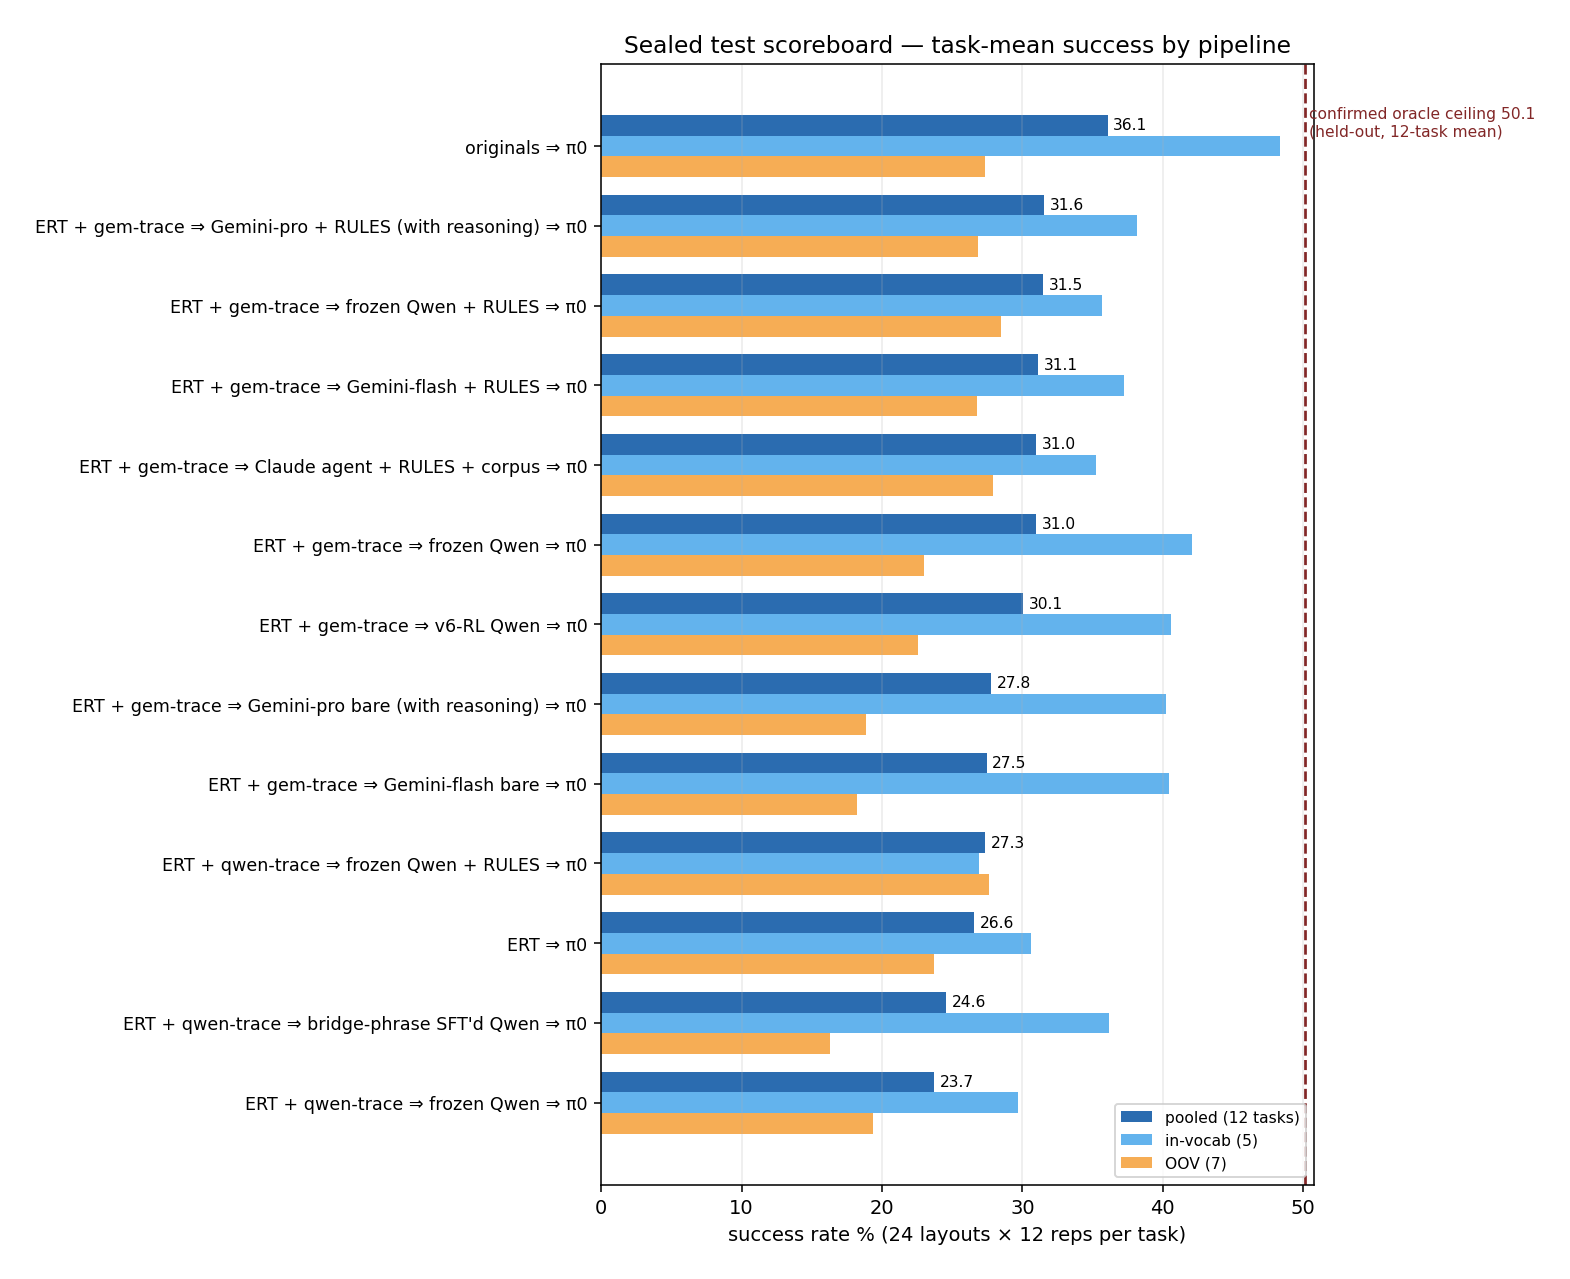
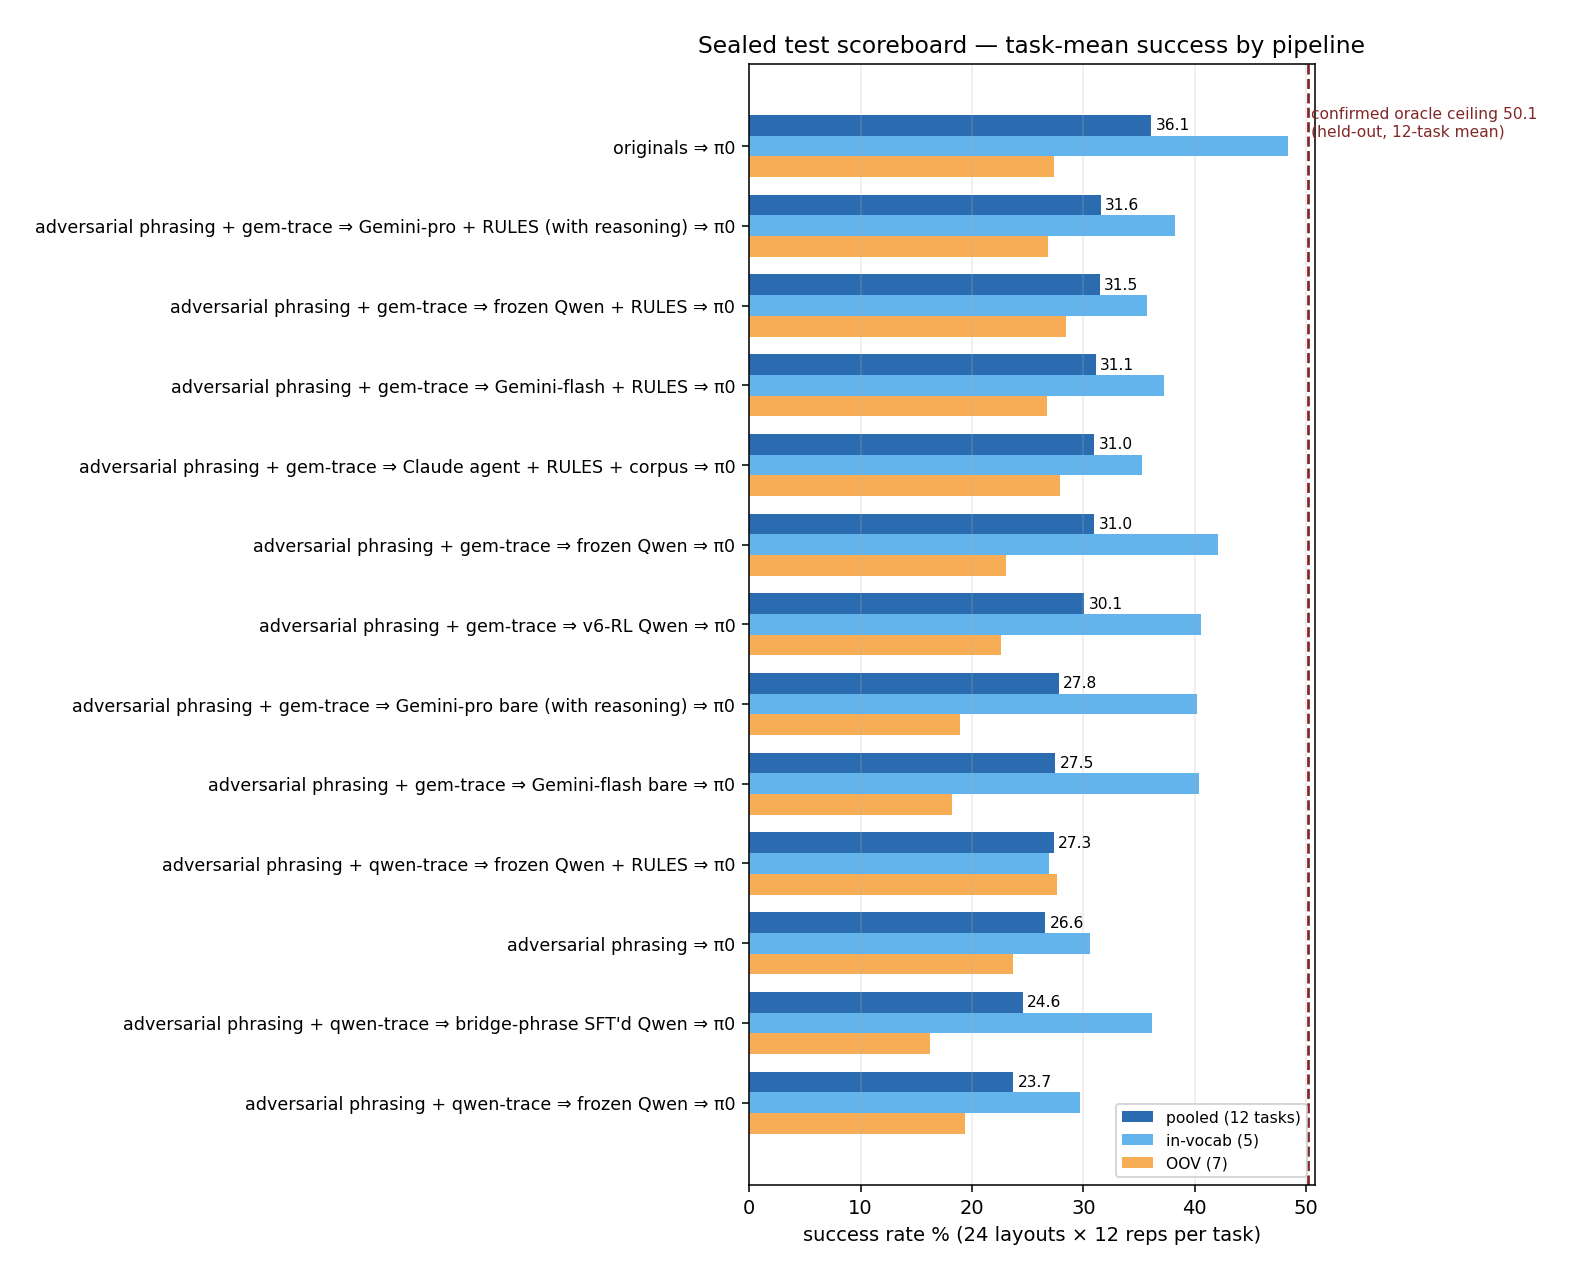
charts: ERT -> 'adversarial phrasing' across all three

diff --git a/scripts/make_sealed_scoreboard.py b/scripts/make_sealed_scoreboard.py
@@ -21,20 +21,20 @@ import pandas as pd
 
 NAME = {
     "originals": "originals ⇒ π0",
-    "passthrough": "ERT ⇒ π0",
-    "frozen_gemini_trace": "ERT + gem-trace ⇒ frozen Qwen ⇒ π0",
-    "frozen_selftrace": "ERT + qwen-trace ⇒ frozen Qwen ⇒ π0",
-    "sft_v2": "ERT + qwen-trace ⇒ bridge-phrase SFT'd Qwen ⇒ π0",
-    "v6_rl": "ERT + gem-trace ⇒ v6-RL Qwen ⇒ π0",
-    "rules_v3_gemini_trace": "ERT + gem-trace ⇒ frozen Qwen + RULES ⇒ π0",
-    "rules_gemini": "ERT + gem-trace ⇒ Gemini-flash + RULES ⇒ π0",
-    "gemini_bare": "ERT + gem-trace ⇒ Gemini-flash bare ⇒ π0",
-    "rules_v3_selftrace": "ERT + qwen-trace ⇒ frozen Qwen + RULES ⇒ π0",
-    "rules_v3_gemini_pro": "ERT + gem-trace ⇒ Gemini-pro + RULES (with reasoning) ⇒ π0",
-    "gemini_pro_bare": "ERT + gem-trace ⇒ Gemini-pro bare (with reasoning) ⇒ π0",
-    "claude_agent": "ERT + gem-trace ⇒ Claude agent + RULES + corpus ⇒ π0",
-    "executor_pair": "ERT + gem-trace ⇒ Claude agent + RULES + corpus ⇒ π0",
-    "rules_v3_claude_agent": "ERT + gem-trace ⇒ Claude agent + RULES + corpus ⇒ π0",
+    "passthrough": "adversarial phrasing ⇒ π0",
+    "frozen_gemini_trace": "adversarial phrasing + gem-trace ⇒ frozen Qwen ⇒ π0",
+    "frozen_selftrace": "adversarial phrasing + qwen-trace ⇒ frozen Qwen ⇒ π0",
+    "sft_v2": "adversarial phrasing + qwen-trace ⇒ bridge-phrase SFT'd Qwen ⇒ π0",
+    "v6_rl": "adversarial phrasing + gem-trace ⇒ v6-RL Qwen ⇒ π0",
+    "rules_v3_gemini_trace": "adversarial phrasing + gem-trace ⇒ frozen Qwen + RULES ⇒ π0",
+    "rules_gemini": "adversarial phrasing + gem-trace ⇒ Gemini-flash + RULES ⇒ π0",
+    "gemini_bare": "adversarial phrasing + gem-trace ⇒ Gemini-flash bare ⇒ π0",
+    "rules_v3_selftrace": "adversarial phrasing + qwen-trace ⇒ frozen Qwen + RULES ⇒ π0",
+    "rules_v3_gemini_pro": "adversarial phrasing + gem-trace ⇒ Gemini-pro + RULES (with reasoning) ⇒ π0",
+    "gemini_pro_bare": "adversarial phrasing + gem-trace ⇒ Gemini-pro bare (with reasoning) ⇒ π0",
+    "claude_agent": "adversarial phrasing + gem-trace ⇒ Claude agent + RULES + corpus ⇒ π0",
+    "executor_pair": "adversarial phrasing + gem-trace ⇒ Claude agent + RULES + corpus ⇒ π0",
+    "rules_v3_claude_agent": "adversarial phrasing + gem-trace ⇒ Claude agent + RULES + corpus ⇒ π0",
     "rules_pro_nominal": "nominal + gem-trace ⇒ Gemini-pro + RULES (with reasoning) ⇒ π0",
     "oracle_confirmed": "oracle phrase (adaptive search) ⇒ π0  *selected on layouts 0-17",
 }

diff --git a/scripts/make_phrasing_ladder.py b/scripts/make_phrasing_ladder.py
@@ -41,12 +41,12 @@ def task_mean(arm: str) -> tuple[float, float]:
 
 
 BARS = [
-    ("ERT ⇒ π0", "passthrough", "#a0aec0"),
-    ("ERT + gem-trace ⇒ Gemini-pro (with reasoning) ⇒ π0", "gemini_pro_bare", "#63b3ed"),
-    ("ERT + gem-trace ⇒ v6-RL Qwen ⇒ π0", "v6_rl", "#9f7aea"),
-    ("ERT + gem-trace ⇒ frozen Qwen ⇒ π0", "frozen_gemini_trace", "#c3a6e8"),
-    ("ERT + gem-trace ⇒ frozen Qwen + RULES ⇒ π0", "rules_v3_gemini_trace", "#6b46c1"),
-    ("ERT + gem-trace ⇒ Gemini-pro + RULES (with reasoning) ⇒ π0", "rules_v3_gemini_pro", "#2b6cb0"),
+    ("adversarial phrasing ⇒ π0", "passthrough", "#a0aec0"),
+    ("adversarial phrasing + gem-trace ⇒ Gemini-pro (with reasoning) ⇒ π0", "gemini_pro_bare", "#63b3ed"),
+    ("adversarial phrasing + gem-trace ⇒ v6-RL Qwen ⇒ π0", "v6_rl", "#9f7aea"),
+    ("adversarial phrasing + gem-trace ⇒ frozen Qwen ⇒ π0", "frozen_gemini_trace", "#c3a6e8"),
+    ("adversarial phrasing + gem-trace ⇒ frozen Qwen + RULES ⇒ π0", "rules_v3_gemini_trace", "#6b46c1"),
+    ("adversarial phrasing + gem-trace ⇒ Gemini-pro + RULES (with reasoning) ⇒ π0", "rules_v3_gemini_pro", "#2b6cb0"),
     ("nominal ⇒ π0", "originals", "#48bb78"),
     ("oracle phrase (adaptive search) ⇒ π0", None, "#822727"),
 ]

diff --git a/scripts/make_sealed_thin.py b/scripts/make_sealed_thin.py
@@ -43,9 +43,9 @@ BARS = [  # (label, arm or callable, color)
     ("oracle", oracle_value, "#822727"),
     ("nominal + gem-trace ⇒ Gemini-pro + RULES (with reasoning) ⇒ π0", "rules_pro_nominal", "#805ad5"),
     ("nominal ⇒ π0", "originals", "#48bb78"),
-    ("ERT + gem-trace ⇒ Gemini-pro + RULES (with reasoning) ⇒ π0", "rules_v3_gemini_pro", "#2b6cb0"),
-    ("ERT + gem-trace ⇒ Gemini-pro (with reasoning) ⇒ π0", "gemini_pro_bare", "#63b3ed"),
-    ("ERT ⇒ π0", "passthrough", "#a0aec0"),
+    ("adversarial phrasing + gem-trace ⇒ Gemini-pro + RULES (with reasoning) ⇒ π0", "rules_v3_gemini_pro", "#2b6cb0"),
+    ("adversarial phrasing + gem-trace ⇒ Gemini-pro (with reasoning) ⇒ π0", "gemini_pro_bare", "#63b3ed"),
+    ("adversarial phrasing ⇒ π0", "passthrough", "#a0aec0"),
 ]
 
 rows = []
